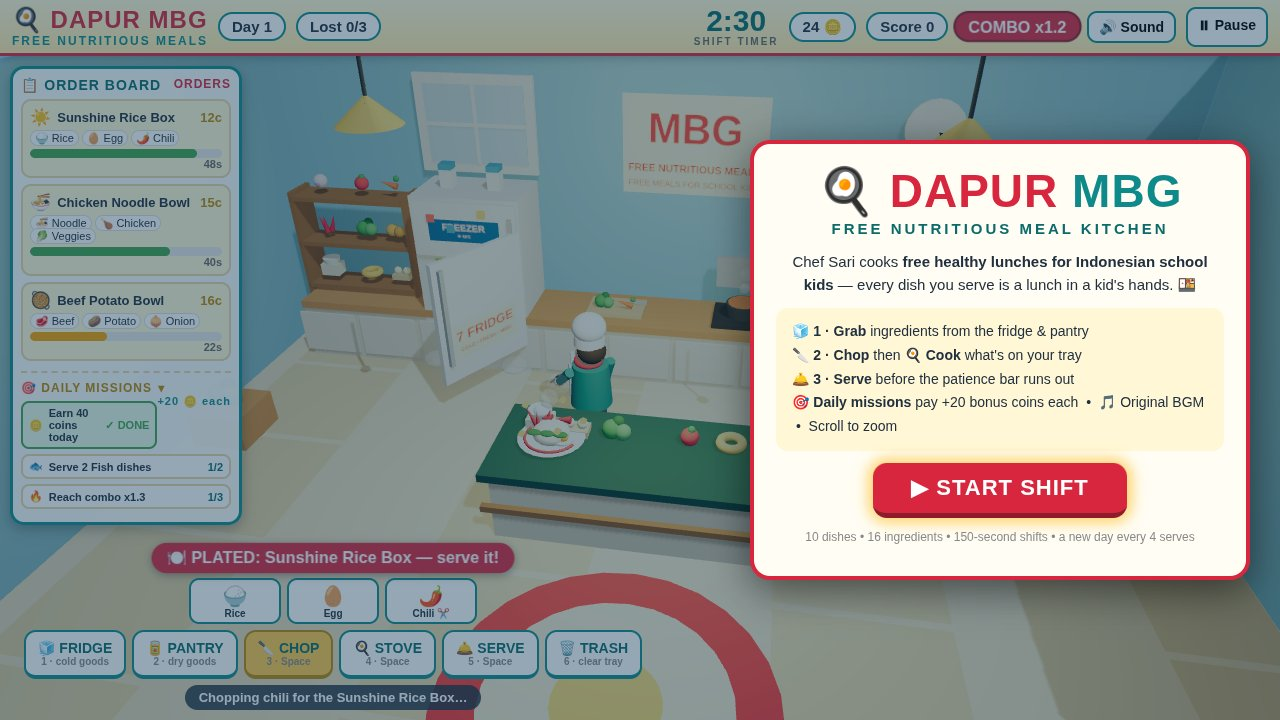
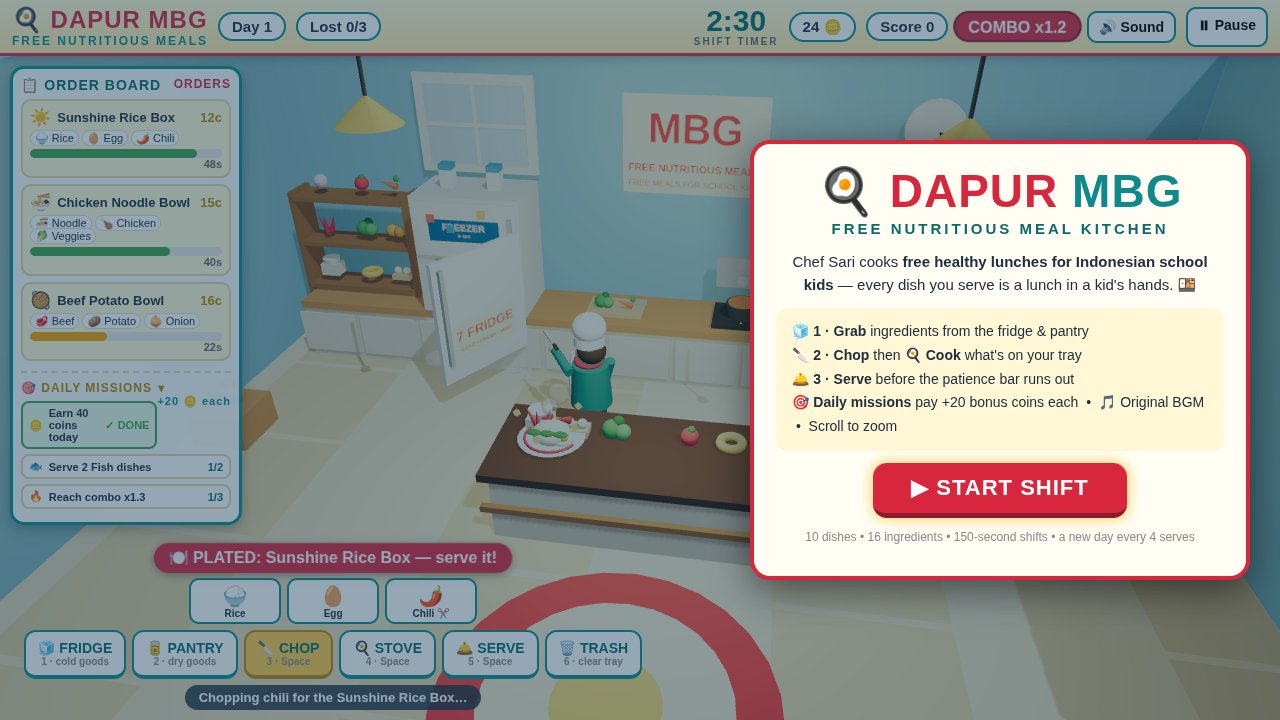
Dark walnut island + serve tops (replaces teal)

diff --git a/game/src/kitchen.js b/game/src/kitchen.js
@@ -15,7 +15,7 @@ const WOOD_DARK = 0x9a6a33;
 // Dark teal-green for the two tops where plates sit (island + serve window):
 // white plates and warm food (rice, noodle, egg, garnish) pop against it,
 // where they washed out on the light wood. Matches Chef Sari's teal shirt.
-const COUNTER_DARK = 0x14524a;
+const COUNTER_DARK = 0x4a2e1a; // dark walnut: darker than WOOD/WOOD_DARK so white plates pop, warm brown to fit the kitchen (teal clashed)
 
 function mat(color, rough = 0.85, metal = 0.0) {
   return new THREE.MeshStandardMaterial({ color, roughness: rough, metalness: metal });
